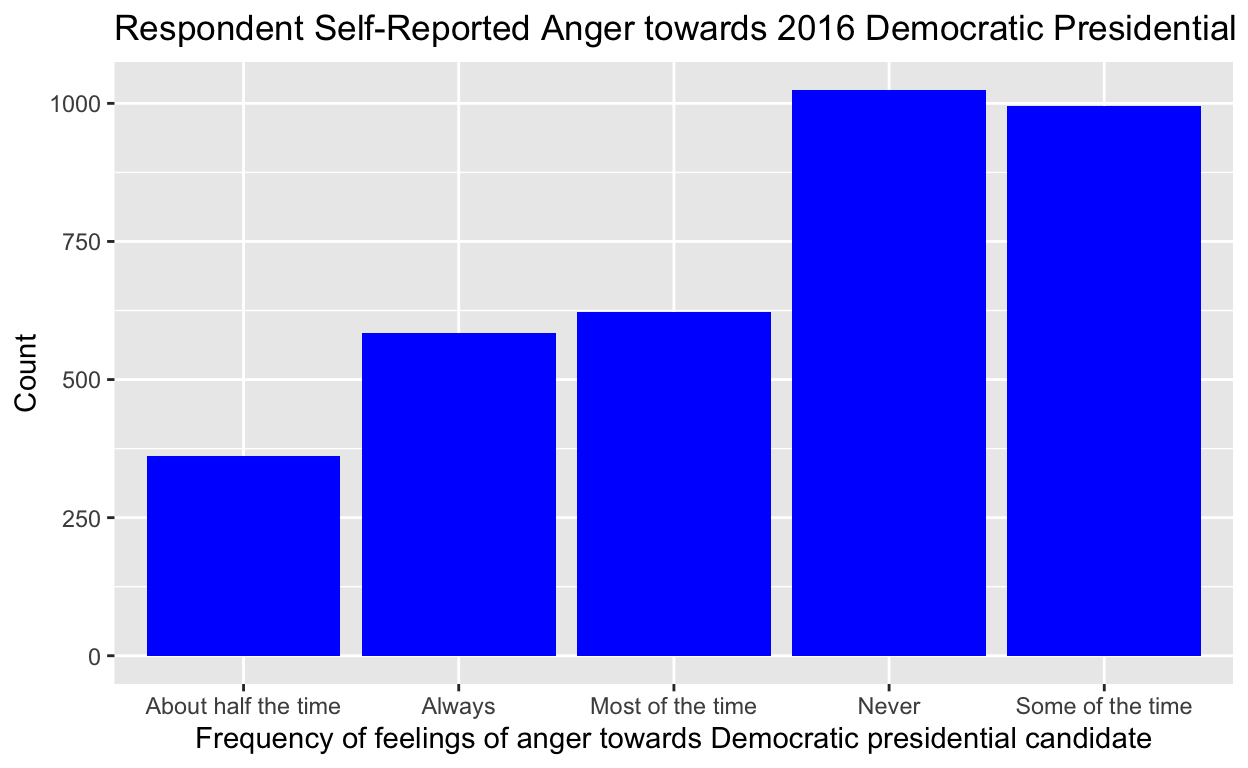
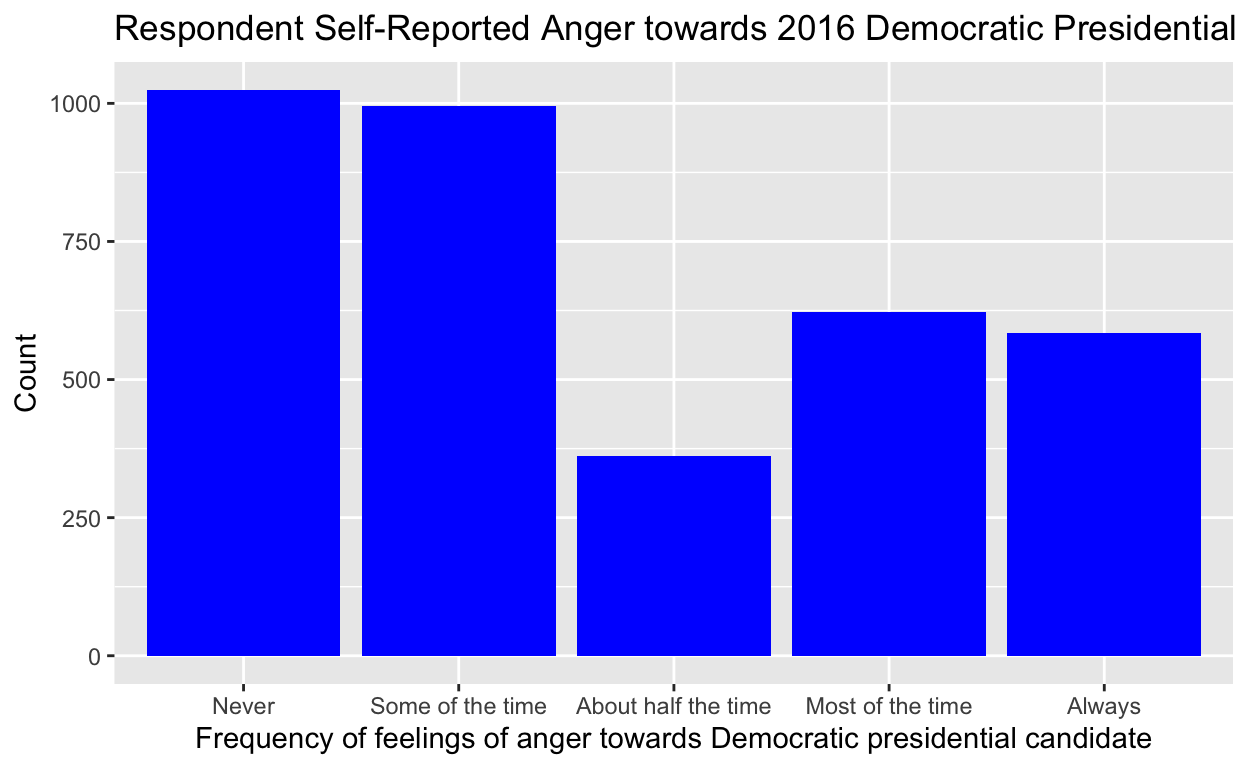
fixed chart type and ordering

diff --git a/index.html b/index.html
@@ -1548,9 +1548,16 @@ code span.wa { color: #5e5e5e; font-style: italic; } /* Warning */
 <span>                                     <span class='va'>Rep_Anger</span> <span class='op'>==</span> <span class='fl'>4</span> <span class='op'>~</span> <span class='st'>"Most of the time"</span>,</span>
 <span>                                     <span class='va'>Rep_Anger</span> <span class='op'>==</span> <span class='fl'>5</span> <span class='op'>~</span> <span class='st'>"Always"</span><span class='op'>)</span> <span class='op'>)</span></span>
 <span></span>
+<span><span class='va'>anes_subset</span> <span class='op'>&lt;-</span> <span class='va'>anes_subset</span> <span class='op'>|&gt;</span></span>
+<span>  <span class='fu'>dplyr</span><span class='fu'>::</span><span class='fu'><a href='https://dplyr.tidyverse.org/reference/mutate.html'>mutate</a></span><span class='op'>(</span>Dem_Anger_Value <span class='op'>=</span> <span class='fu'><a href='https://rdrr.io/r/base/factor.html'>factor</a></span><span class='op'>(</span><span class='va'>Dem_Anger_Value</span>, </span>
+<span>                                    levels <span class='op'>=</span> <span class='fu'><a href='https://rdrr.io/r/base/c.html'>c</a></span><span class='op'>(</span><span class='st'>"Never"</span>, <span class='st'>"Some of the time"</span>, <span class='st'>"About half the time"</span>,</span>
+<span>                                               <span class='st'>"Most of the time"</span>, <span class='st'>"Always"</span><span class='op'>)</span><span class='op'>)</span><span class='op'>)</span> <span class='op'>|&gt;</span></span>
+<span>   <span class='fu'>dplyr</span><span class='fu'>::</span><span class='fu'><a href='https://dplyr.tidyverse.org/reference/mutate.html'>mutate</a></span><span class='op'>(</span>Rep_Anger_Value <span class='op'>=</span> <span class='fu'><a href='https://rdrr.io/r/base/factor.html'>factor</a></span><span class='op'>(</span><span class='va'>Rep_Anger_Value</span>, </span>
+<span>                                    levels <span class='op'>=</span> <span class='fu'><a href='https://rdrr.io/r/base/c.html'>c</a></span><span class='op'>(</span><span class='st'>"Never"</span>, <span class='st'>"Some of the time"</span>, <span class='st'>"About half the time"</span>,</span>
+<span>                                               <span class='st'>"Most of the time"</span>, <span class='st'>"Always"</span><span class='op'>)</span><span class='op'>)</span><span class='op'>)</span> </span>
 <span><span class='va'>dem_anger_plot</span> <span class='op'>&lt;-</span> <span class='va'>anes_subset</span> <span class='op'>|&gt;</span></span>
 <span>  <span class='fu'><a href='https://tidyr.tidyverse.org/reference/drop_na.html'>drop_na</a></span><span class='op'>(</span><span class='op'>)</span> <span class='op'>|&gt;</span></span>
-<span>  <span class='fu'><a href='https://ggplot2.tidyverse.org/reference/ggplot.html'>ggplot</a></span><span class='op'>(</span>mapping <span class='op'>=</span> <span class='fu'><a href='https://ggplot2.tidyverse.org/reference/aes.html'>aes</a></span><span class='op'>(</span>x <span class='op'>=</span> <span class='va'>Dem_Anger_Value</span><span class='op'>)</span><span class='op'>)</span> <span class='op'>+</span> <span class='fu'><a href='https://ggplot2.tidyverse.org/reference/geom_histogram.html'>geom_histogram</a></span><span class='op'>(</span>stat <span class='op'>=</span> <span class='st'>"count"</span>, fill <span class='op'>=</span> <span class='st'>"blue"</span><span class='op'>)</span> <span class='op'>+</span> </span>
+<span>  <span class='fu'><a href='https://ggplot2.tidyverse.org/reference/ggplot.html'>ggplot</a></span><span class='op'>(</span>mapping <span class='op'>=</span> <span class='fu'><a href='https://ggplot2.tidyverse.org/reference/aes.html'>aes</a></span><span class='op'>(</span>x <span class='op'>=</span> <span class='va'>Dem_Anger_Value</span><span class='op'>)</span><span class='op'>)</span> <span class='op'>+</span> <span class='fu'><a href='https://ggplot2.tidyverse.org/reference/geom_bar.html'>geom_bar</a></span><span class='op'>(</span>stat <span class='op'>=</span> <span class='st'>"count"</span>, fill <span class='op'>=</span> <span class='st'>"blue"</span><span class='op'>)</span> <span class='op'>+</span> </span>
 <span>  <span class='fu'><a href='https://ggplot2.tidyverse.org/reference/labs.html'>labs</a></span><span class='op'>(</span>title <span class='op'>=</span> <span class='st'>"Respondent Self-Reported Anger towards 2016 Democratic Presidential Candidate"</span>,</span>
 <span>       x <span class='op'>=</span> <span class='st'>"Frequency of feelings of anger towards Democratic presidential candidate"</span>,</span>
 <span>       y <span class='op'>=</span> <span class='st'>"Count"</span><span class='op'>)</span> </span>
@@ -1560,7 +1567,7 @@ code span.wa { color: #5e5e5e; font-style: italic; } /* Warning */
 <div class="sourceCode">
 <pre class="sourceCode r"><code class="sourceCode r"><span><span class='va'>rep_anger_plot</span> <span class='op'>&lt;-</span> <span class='va'>anes_subset</span> <span class='op'>|&gt;</span></span>
 <span>  <span class='fu'><a href='https://tidyr.tidyverse.org/reference/drop_na.html'>drop_na</a></span><span class='op'>(</span><span class='op'>)</span> <span class='op'>|&gt;</span></span>
-<span>  <span class='fu'><a href='https://ggplot2.tidyverse.org/reference/ggplot.html'>ggplot</a></span><span class='op'>(</span>mapping <span class='op'>=</span> <span class='fu'><a href='https://ggplot2.tidyverse.org/reference/aes.html'>aes</a></span><span class='op'>(</span>x <span class='op'>=</span> <span class='va'>Rep_Anger_Value</span><span class='op'>)</span><span class='op'>)</span> <span class='op'>+</span> <span class='fu'><a href='https://ggplot2.tidyverse.org/reference/geom_histogram.html'>geom_histogram</a></span><span class='op'>(</span>stat <span class='op'>=</span> <span class='st'>"count"</span>, fill <span class='op'>=</span> <span class='st'>"red"</span><span class='op'>)</span> <span class='op'>+</span></span>
+<span>  <span class='fu'><a href='https://ggplot2.tidyverse.org/reference/ggplot.html'>ggplot</a></span><span class='op'>(</span>mapping <span class='op'>=</span> <span class='fu'><a href='https://ggplot2.tidyverse.org/reference/aes.html'>aes</a></span><span class='op'>(</span>x <span class='op'>=</span> <span class='va'>Rep_Anger_Value</span><span class='op'>)</span><span class='op'>)</span> <span class='op'>+</span> <span class='fu'><a href='https://ggplot2.tidyverse.org/reference/geom_bar.html'>geom_bar</a></span><span class='op'>(</span>stat <span class='op'>=</span> <span class='st'>"count"</span>, fill <span class='op'>=</span> <span class='st'>"red"</span><span class='op'>)</span> <span class='op'>+</span></span>
 <span>  <span class='fu'><a href='https://ggplot2.tidyverse.org/reference/labs.html'>labs</a></span><span class='op'>(</span>title <span class='op'>=</span> <span class='st'>"Respondent Self-Reported Anger towards 2016 Republican Presidential Candidate"</span>,</span>
 <span>       x <span class='op'>=</span> <span class='st'>"Frequency of feelings of anger towards Republican presidential candidate"</span>,</span>
 <span>       y <span class='op'>=</span> <span class='st'>"Count"</span><span class='op'>)</span></span>
